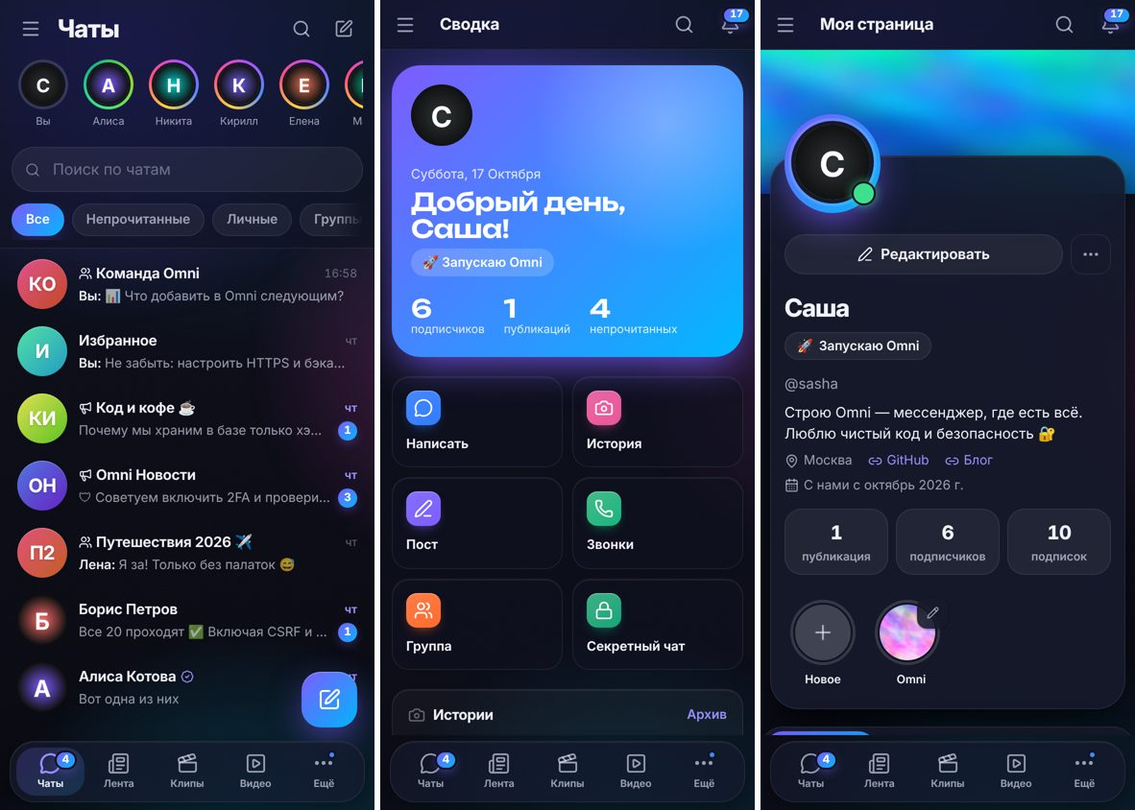
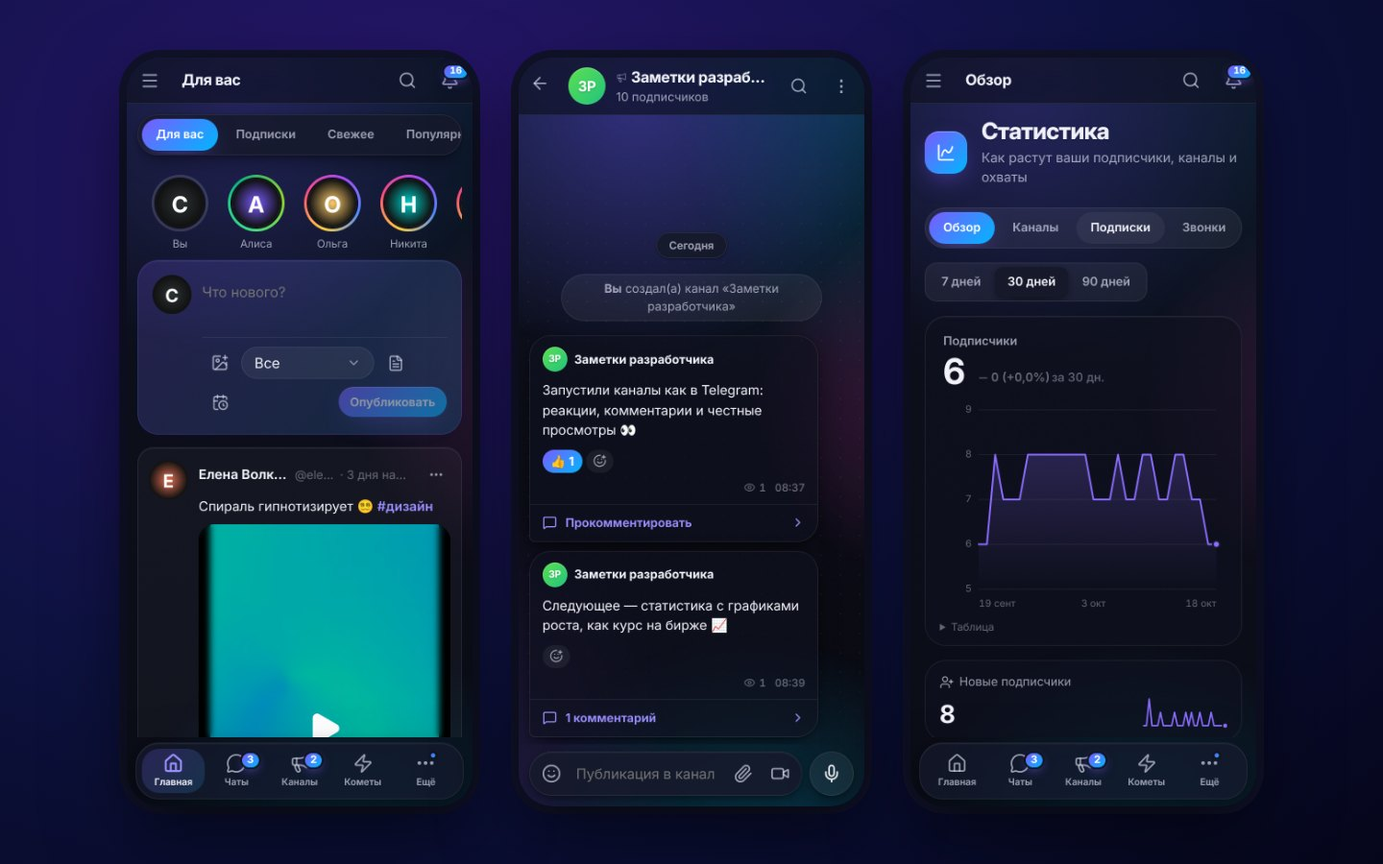
SpaceUp: документация, новые скриншоты, исправления вида
- README и документы под SpaceUp: разделы, компании, каналы, статистика,
  «Пространство»; почта через Brevo; предупреждение о временном диске Render
- Панель реакций в канале открывалась со смещением (backdrop-filter у панели) — теперь в портале
- Участники компании на экранах от 1200 px — третьей колонкой, не поверх переписки
- Левая панель помещается целиком на экранах высотой 900 px
- Убраны «скоро»-заглушки из языка и уведомлений

Claude-Session: https://claude.ai/code/session_01Hb1m9i61LejQRpqaXXdBam

diff --git a/apps/web/src/features/chats/Messages.tsx b/apps/web/src/features/chats/Messages.tsx
@@ -1,4 +1,5 @@
 import { createContext, memo, useContext, useEffect, useRef, useState, type ReactNode } from 'react';
+import { createPortal } from 'react-dom';
 import { AlertCircle, BellOff, Check, CheckCheck, ChevronRight, Clock, Copy, Ellipsis, Eye, Flag, Forward, Lock, MessageSquare, Pencil, Pin, Plus, Reply, RotateCcw, SmilePlus, Trash2 } from 'lucide-react';
 import { REACTIONS, type ChatSummary } from '@omni/shared';
 import { Avatar, EmojiPicker, Menu, MediaGrid, RichText, useMenu, type MenuEntry } from '../../shared/ui';
@@ -249,20 +250,23 @@ const Bubble = memo(function Bubble({ msg, chat, myId, grouped, groupedNext, sec
           ) : null
         }
       />
-      {picker && (
-        <div className="reaction-picker-layer" onPointerDown={(e) => e.target === e.currentTarget && setPicker(null)}>
-          <div className="reaction-picker" style={{ left: Math.max(8, Math.min(picker.x - 160, window.innerWidth - 348)), top: Math.max(8, Math.min(picker.y + 6, window.innerHeight - 370)) }}>
-            <EmojiPicker
-              autoFocus
-              onClose={() => setPicker(null)}
-              onPick={(e) => {
-                setPicker(null);
-                actions.react(msg, e);
-              }}
-            />
-          </div>
-        </div>
-      )}
+      {/* В портале: у панели переписки есть backdrop-filter, и position: fixed внутри неё считался бы от панели */}
+      {picker &&
+        createPortal(
+          <div className="reaction-picker-layer" onPointerDown={(e) => e.target === e.currentTarget && setPicker(null)}>
+            <div className="reaction-picker" style={{ left: Math.max(8, Math.min(picker.x - 160, window.innerWidth - 348)), top: Math.max(8, Math.min(picker.y + 6, window.innerHeight - 370)) }}>
+              <EmojiPicker
+                autoFocus
+                onClose={() => setPicker(null)}
+                onPick={(e) => {
+                  setPicker(null);
+                  actions.react(msg, e);
+                }}
+              />
+            </div>
+          </div>,
+          document.body,
+        )}
     </div>
   );
 });

diff --git a/apps/web/src/features/settings/general.tsx b/apps/web/src/features/settings/general.tsx
@@ -231,12 +231,9 @@ export function DataSettings() {
 export function LanguageSettings() {
   return (
     <SettingsPage title="Язык" icon={<Languages size={22} />}>
-      <Panel footer="Английский и другие языки появятся вместе с системой локализации (в плане развития).">
+      <Panel footer="Интерфейс SpaceUp — на русском языке.">
         <label className="list-item audience__option">
           <input type="radio" checked readOnly /> <span className="list-item__body">Русский</span>
-        </label>
-        <label className="list-item audience__option" style={{ opacity: 0.5 }}>
-          <input type="radio" disabled /> <span className="list-item__body">English — скоро</span>
         </label>
       </Panel>
     </SettingsPage>

diff --git a/apps/web/src/features/settings/device.tsx b/apps/web/src/features/settings/device.tsx
@@ -68,7 +68,7 @@ export function QuietSettings() {
           </label>
         </div>
       </Panel>
-      <Panel title="Системные уведомления" footer="Показываются, когда вкладка SpaceUp в фоне. Push при полностью закрытом браузере — в плане развития (Web Push).">
+      <Panel title="Системные уведомления" footer="Показываются, когда вкладка SpaceUp в фоне.">
         <SettingRow
           title="Уведомления на рабочем столе"
           description={perm === 'denied' ? 'Запрещено в настройках браузера — разрешите вручную' : 'Новые сообщения и события в углу экрана'}

diff --git a/apps/web/src/features/misc/ComingSoon.tsx b/apps/web/src/features/misc/ComingSoon.tsx
@@ -55,10 +55,10 @@ export function NotFound() {
         title="Здесь ничего нет"
         text={
           <>
-            Похоже, вы забрели в неизведанную часть лабиринта. Нажмите <span className="kbd">Ctrl K</span>, чтобы быстро найти нужный раздел.
+            Такой страницы нет — возможно, ссылка устарела. Нажмите <span className="kbd">Ctrl K</span>, чтобы быстро найти нужный раздел.
           </>
         }
-        action={<Link to="/chats" className="btn btn--primary">К чатам</Link>}
+        action={<Link to="/home" className="btn btn--primary">На главную</Link>}
       />
     </div>
   );

diff --git a/apps/web/src/features/spaces/spaces.css b/apps/web/src/features/spaces/spaces.css
@@ -329,3 +329,23 @@
     flex: 0 0 auto;
   }
 }
+
+/* Боковая панель пространства уже списка чатов — с 1200 px участники
+   и информация о чате помещаются третьей колонкой, а не поверх переписки */
+@media (min-width: 1200px) {
+  .chats.space {
+    grid-template-columns: 280px minmax(0, 1fr);
+  }
+  .chats.space.chats--info {
+    grid-template-columns: 280px minmax(0, 1fr) 300px;
+  }
+  .chats.space.chats--info .chats__info {
+    position: static;
+    inset: auto;
+    width: auto;
+    z-index: auto;
+    background: var(--panel);
+    box-shadow: var(--panel-highlight), var(--shadow-panel);
+    animation: none;
+  }
+}

diff --git a/apps/web/src/styles/layout.css b/apps/web/src/styles/layout.css
@@ -938,3 +938,25 @@
     display: none;
   }
 }
+
+/* Невысокие экраны (ноутбуки 1440×900): рельс плотнее, чтобы все разделы и профиль помещались без прокрутки */
+@media (min-width: 768px) and (max-height: 960px) {
+  .rail {
+    padding: 10px 0 10px;
+    gap: 0;
+  }
+  .rail__logo {
+    width: 42px;
+    height: 42px;
+    margin-bottom: 4px;
+  }
+  .rail__icon {
+    height: 30px;
+  }
+  .rail__item {
+    padding: 2px 0 3px;
+  }
+  .rail__tool {
+    height: 32px;
+  }
+}

diff --git a/docs/ARCHITECTURE.md b/docs/ARCHITECTURE.md
@@ -1,4 +1,4 @@
-# Архитектура Omni
+# Архитектура SpaceUp
 
 ## Общая схема
 
@@ -23,9 +23,10 @@
 
 1. **Один контракт на клиент и сервер.** `packages/shared` содержит zod-схемы входных данных, типы ответов (DTO), протокол WebSocket и лимиты. Сервер валидирует ими каждый запрос, клиент — формы. Изменили схему — TypeScript покажет все места, которые нужно поправить.
 2. **Composition root.** Все сервисы создаются в `apps/server/src/context.ts` и получают зависимости через конструктор. Модули не создают друг друга сами — их легко тестировать и заменять (например, хранилище медиа на S3).
-3. **Авторизация в одном месте.** `modules/policy` решает «можно ли X сделать Y»: видеть профиль, писать, комментировать, видеть «в сети». SQL-фильтр видимости ленты (`Policy.visiblePostsSql`) общий для всех лент — проверку нельзя «забыть» в новом эндпоинте.
-4. **Единая модель контента.** Заметки, фото, видео и клипы — это одна таблица `posts` с полем `kind`. Лайки, комментарии, репосты, закладки, история, рекомендации и поиск работают одинаково для всех форматов. Новый формат (аудио, эфиры) добавляется без переделки остальных модулей.
-5. **Навигация как данные.** `apps/web/src/app/navigation.ts` — реестр всех разделов. Из него строятся рельс, дерево, хлебные крошки, палитра Ctrl+K и мобильная шторка. Тест `navigation.test.ts` гарантирует, что в «лабиринте» нет тупиков: каждый пункт либо ведёт на маршрут, либо помечен как «скоро» с описанием.
+3. **Авторизация в одном месте.** `modules/policy` решает «можно ли X сделать Y»: видеть профиль, писать, комментировать, видеть «в сети», права участника компании или сообщества (`spacePermissions`) и доступ к их чатам (`canSeeSpaceRoom`). SQL-фильтр видимости ленты (`Policy.visiblePostsSql`) общий для всех лент — проверку нельзя «забыть» в новом эндпоинте.
+4. **Единая модель контента.** Заметки, фото, видео и кометы — это одна таблица `posts` с полем `kind`. Лайки, комментарии, репосты, закладки, история, рекомендации и поиск работают одинаково для всех форматов. Новый формат (аудио, эфиры) добавляется без переделки остальных модулей.
+5. **Навигация как данные.** `apps/web/src/app/navigation.ts` — реестр всех разделов. Из него строятся рельс, дерево, хлебные крошки, палитра Ctrl+K и мобильная шторка. Тест `navigation.test.ts` гарантирует, что в навигации нет тупиков: каждый пункт ведёт на настоящий маршрут.
+6. **Чаты — единый механизм.** Каналы, группы внутри сообществ и чаты компаний — это те же чаты (`modules/chats`): переписка, реакции, голосовые, звонки и модерация работают везде одинаково. Пространства (`modules/spaces`) отвечают только за состав и права.
 
 ## Сервер (`apps/server`)
 
@@ -35,31 +36,35 @@
 | `mail` | отправка писем (Brevo/Resend по HTTPS, SMTP, тестовый ящик в разработке), HTML-шаблоны |
 | `users` | профили, подписки и заявки, блокировки, скрытие, настройки приватности и уведомлений |
 | `policy` | централизованная авторизация |
-| `chats` | личные, группы, каналы, секретные, «Избранное»; сообщения с монотонным `seq`, реакции, пересылка, закрепы, прочтение, таймеры самоуничтожения; голосовые, кружки, опросы, упоминания, медленный режим, автоудаление; свои папки (`folders`), пригласительные ссылки (`invites`), отложенные сообщения (`scheduled`), поиск по сообщениям (FTS5) |
+| `chats` | личные, группы (открытые и закрытые), каналы (комментарии к постам, просмотры, блокировки), секретные, «Избранное»; сообщения с монотонным `seq`, реакции, пересылка, закрепы, прочтение, таймеры самоуничтожения; голосовые, кружки, опросы, упоминания, медленный режим, автоудаление; свои папки (`folders`), пригласительные ссылки (`invites`), отложенные сообщения (`scheduled`), поиск по сообщениям (FTS5) |
 | `calls` | звонки 1:1: состояние в БД (вызов → разговор → завершён/пропущен), сигнализация WebRTC через WebSocket только к принявшему сеансу, таймаут вызова, сообщение о звонке в чате |
 | `keys` | каталог публичных ключей устройств (E2E) |
 | `posts` | публикации всех видов, ленты и ранжирование, комментарии, лайки и «кто оценил», закладки, история, плейлисты, хэштеги, студия, закреп в профиле, уведомления подписчикам с «колокольчиком» |
 | `social` | черновики и отложенные публикации, списки авторов, коллекции закладок, скрытые слова (фильтр лент через FTS5) |
 | `media` | загрузка (проверка типа по содержимому, лимиты), подписанные ссылки, раздача с Range |
 | `stories` | истории (аудитория «все»/«близкие друзья»), реакции, просмотры, архив, «Актуальное» |
-| `communities`, `notifications`, `search`, `reports` | соответствующие функции |
+| `spaces` | компании и сообщества: роли с правами (битовая маска), категории, чаты с доступом по ролям, приглашения через уведомления, ссылки-приглашения; состав чатов пересчитывается из ролей (`sync`) |
+| `stats` | дневные счётчики (`stat_daily`): подписки и отписки, просмотры профиля и постов каналов; ряды строятся назад от текущего значения |
+| `notifications`, `search`, `reports` | соответствующие функции |
 | `realtime` | WebSocket-хаб, присутствие, «печатает…/записывает…», доставка сигналов звонка в конкретный сеанс |
 
 **Данные.** SQLite через встроенный `node:sqlite`: WAL, внешние ключи, FTS5 для поиска. Идентификаторы — ULID (сортируются по времени, не угадываются). Время — миллисекунды UTC. Миграции — в `db/migrations.ts`, применяются при старте; опубликованные миграции не редактируются, только добавляются новые. Весь SQL параметризован; обёртка `Db` отбрасывает лишние параметры и требует отсутствующие.
 
 **Доставка сообщений.** Сообщение сохраняется в транзакции, получая следующий `seq` чата, затем рассылается участникам через `RealtimeHub`. Отправка идемпотентна: повтор с тем же `clientId` (плохая мобильная сеть) вернёт уже созданное сообщение. После переподключения клиент перезапрашивает список чатов и открытую переписку.
 
-**Миграции.** `001_init` — базовая схема; `002_email` — почта, коды и знакомство; `003_messenger` — голосовые, опросы, звонки, папки, приглашения, отложенные сообщения, поиск по сообщениям; `004_social` — аудитория и реакции историй, «Близкие друзья», «Актуальное», статус/ссылки/закреп профиля, черновики, списки, коллекции, скрытые слова, «колокольчик».
+**Миграции.** `001_init` — базовая схема; `002_email` — почта, коды и знакомство; `003_messenger` — голосовые, опросы, звонки, папки, приглашения, отложенные сообщения, поиск по сообщениям; `004_social` — аудитория и реакции историй, «Близкие друзья», «Актуальное», статус/ссылки/закреп профиля, черновики, списки, коллекции, скрытые слова, «колокольчик»; `005_phone` — номер телефона; `006_channels` — комментарии, просмотры, блокировки, дневная статистика; `007_spaces` — компании и сообщества.
 
 **Фоновые задачи** (`jobs.ts`): удаление сообщений с истёкшим таймером, отправка отложенных сообщений (каждые 10 с) и публикация отложенных постов (каждые 30 с), очистка сеансов, удалённых историй, кодов из писем и незавершённых входов, `PRAGMA optimize`.
 
 ## Клиент (`apps/web`)
 
 - `app/` — оболочка (`layout/`), реестр навигации, маршруты (каждый модуль — отдельный чанк), сессия, обработка событий реального времени.
-- `features/*` — модули разделов: `home` (сводка), `chats`, `calls` (экран звонка и история), `stories`, `feed`, `posts`, `social` (черновики, списки, коллекции, скрытые слова), `video`, `shorts`, `photos`, `communities`, `explore`, `notifications`, `profile`, `settings`, `onboarding`. Модули используют друг друга только через публичные компоненты (полоса историй, карточка поста, окна выбора).
+- `features/*` — модули разделов: `chats` (и каналы), `calls` (экран звонка и история), `spaces` (компании и сообщества), `stats` (графики на SVG), `desktop` («Пространство»), `stories`, `feed` (главная), `posts`, `social`, `video`, `shorts` (кометы), `explore` (поиск), `notifications`, `profile`, `settings`, `onboarding`. Модули используют друг друга только через публичные компоненты (полоса историй, карточка поста, окна выбора).
 - `shared/` — API-клиент (CSRF, ошибки, загрузка с прогрессом), UI-кит, хуки, сторы, E2E-криптография, подготовка медиа (сжатие фото с удалением EXIF, обложки видео).
 
 **Состояние.** Серверные данные — TanStack Query; оптимистичные обновления (лайки, отправка сообщений, реакции на истории) сразу отражаются во всех закэшированных местах и откатываются при ошибке. Настройки устройства (тема, палитра, шрифт, скругления, обои, звуки, «Не беспокоить», стартовая страница, код-пароль) — Zustand с `persist`; визуальные применяются атрибутами `data-*` на `<html>`, которые переопределяют CSS-переменные из `styles/tokens.css`.
+
+**«Пространство».** Режим рабочего стола рендерится вне общего `BrowserRouter`: у каждого окна свой `MemoryRouter` и те же маршруты (`AppRoutes` с другой оболочкой), поэтому окна независимы и сохраняют свою историю. Поле — CSS-трансформация `translate + scale`; развёрнутое окно получает обратный масштаб и остаётся чётким. Окна и вид хранятся в `localStorage`.
 
 **Звонки.** `shared/calls/engine.ts` — конечный автомат звонка (исходящий → входящий → соединение → разговор → завершён) поверх `RTCPeerConnection`; экран звонка смонтирован в оболочке и живёт поверх любых страниц.
 

diff --git a/docs/ROADMAP.md b/docs/ROADMAP.md
@@ -1,45 +1,37 @@
 # Дорожная карта
 
-Фундамент готов: архитектура, безопасность, навигация и все базовые сценарии. Дальше — «дом из маленьких функций». Пункты, отмеченные 🧭, уже есть в навигации как разделы «скоро».
+Готово: чаты и звонки, каналы как в Telegram, «Кометы», лента, видео, компании в стиле Discord, сообщества, статистика, режим «Пространство», номер телефона и поиск по нему, почта с кодами.
 
-## Ближайшее: мелочи, которые делают удобно
+## Следующий этап
 
-- [x] Голосовые сообщения и кружочки (видеосообщения)
-- [ ] Стикеры, GIF-поиск, свои эмодзи 🧭
-- [x] Черновики и отложенные посты; треды (серии постов) — впереди
-- [x] Свои папки чатов с правилами
-- [x] Упоминания @ в группах; ответы-ветки в группах — впереди
+- [ ] **Админка аккаунта** — панель владельца: пользователи, жалобы, блокировки, статистика сервиса, рассылки
+- [ ] **Звонки с «фишкой»** — новый вид экрана звонка и функция, ради которой зовут друзей: групповые комнаты, совместный просмотр, эффекты
+- [ ] Групповые звонки и демонстрация экрана
+- [ ] Прямые эфиры в каналах
+
+## Мелочи, которые делают удобно
+
+- [ ] Стикеры, GIF-поиск, свои эмодзи
 - [ ] Предпросмотр ссылок (безопасный, через серверный прокси)
-- [ ] Прыжок к закреплённому/найденному сообщению в переписке
-- [ ] Редактирование аватаров групп, каналов и сообществ из интерфейса
-- [x] Архив и «Актуальное» историй, «Близкие друзья», реакции, текстовые истории
-- [x] Списки авторов в ленте, коллекции закладок, скрытые слова
-
-## Связь
-
-- [x] Аудио- и видеозвонки 1:1 на WebRTC (DTLS-SRTP)
-- [ ] Групповые конференции, демонстрация экрана 🧭
-- [ ] Прямые эфиры 🧭
+- [ ] Прыжок к закреплённому сообщению в переписке
+- [ ] Аватары групп, каналов, компаний и сообществ из интерфейса
+- [ ] Треды (серии постов), ответы-ветки в группах
+- [ ] Перетаскивание чатов между категориями в компаниях
 
 ## Безопасность и приватность
 
 - [ ] Double Ratchet (forward secrecy) для секретных чатов, мультиустройства
-- [ ] Шифрование вложений в секретных чатах
-- [ ] E2E для групп (MLS)
-- [ ] Ключи доступа (passkeys / WebAuthn) как альтернатива паролю
+- [ ] Шифрование вложений в секретных чатах, E2E для групп (MLS)
+- [ ] Ключи доступа (passkeys / WebAuthn)
+- [ ] Подтверждение номера телефона по SMS
 - [ ] Проверка паролей по утечкам (HIBP, k-anonymity)
-- [ ] Серверное удаление EXIF и пережатие медиа (сейчас — на клиенте)
-- [ ] Антиспам и автомодерация, расширенная панель модератора
+- [ ] Антиспам и автомодерация
 
 ## Платформа
 
 - [ ] Web Push-уведомления
-- [ ] Транскодирование видео (HLS, несколько качеств), превью при наведении
+- [ ] Транскодирование видео (HLS, несколько качеств)
 - [ ] PostgreSQL, Redis для реалтайма, S3 для медиа (см. [архитектуру](ARCHITECTURE.md#как-масштабировать-дальше))
-- [ ] Локализация (английский и другие языки)
+- [ ] Английский и другие языки
 - [ ] Нативные приложения (React Native / Capacitor) на том же API
-- [ ] Bot API и мини-приложения 🧭
-
-## Сервисы 🧭
-
-Музыка, подкасты, маркетплейс, кошелёк, игры, афиша, облако, бизнес-профили, ассистент — места в навигации уже готовы, каждый подключается как отдельный модуль в `apps/server/src/modules` и `apps/web/src/features`.
+- [ ] Bot API и мини-приложения

diff --git a/docs/CONTRIBUTING.md b/docs/CONTRIBUTING.md
@@ -1,14 +1,13 @@
-# Как развивать Omni
+# Как развивать SpaceUp
 
 ## Добавить раздел в навигацию
 
 1. Откройте `apps/web/src/app/navigation.ts` и добавьте узел в нужное место дерева:
    ```ts
-   { id: 'feed.mine.drafts', label: 'Черновики', icon: PenLine, path: '/feed/drafts', planned: ['Автосохранение', 'Отложенная публикация'] }
+   { id: 'home.mine.drafts', label: 'Черновики', icon: PenLine, path: '/feed/drafts' }
    ```
-   Пока у узла есть `planned`, по его адресу автоматически открывается страница-дорожная карта.
-2. Когда страница готова — уберите `planned` и добавьте маршрут в `apps/web/src/app/routes.tsx`.
-3. `npm test` проверит, что в навигации нет тупиков (каждый пункт ведёт на маршрут или помечен как «скоро»).
+2. Добавьте маршрут в `apps/web/src/app/routes.tsx` — он автоматически заработает и в обычном режиме, и в окнах «Пространства».
+3. `npm test` проверит, что в навигации нет тупиков (каждый пункт ведёт на маршрут).
 
 Раздел сразу появится в дереве, хлебных крошках, мобильной шторке и палитре Ctrl+K.
 

diff --git a/docs/SECURITY.md b/docs/SECURITY.md
@@ -1,4 +1,4 @@
-# Безопасность Omni
+# Безопасность SpaceUp
 
 Безопасность заложена в фундамент, а не добавлена сверху. Ниже — что защищено уже сейчас, как именно, и чего прототип пока не делает.
 
